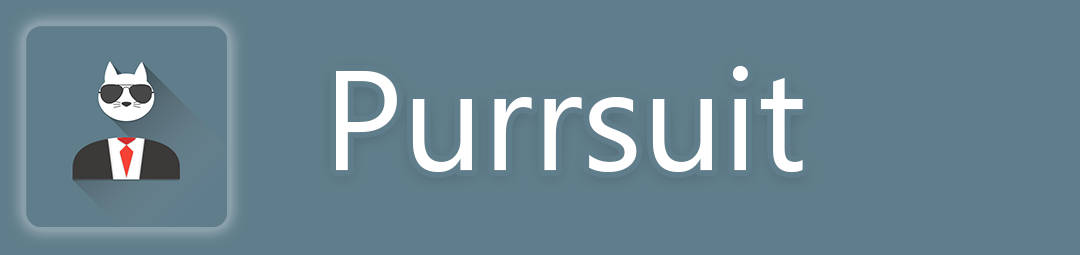
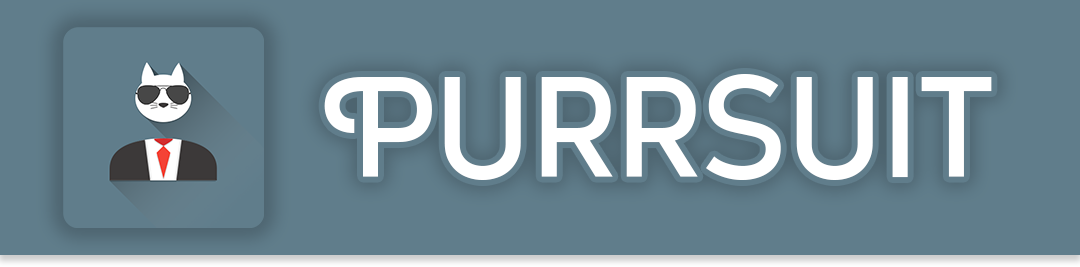
Fixed Ranking functions; Changed app images;

Changed region(s): [[0.275, 0.2471, 0.9167, 0.6863], [0.0, 0.0549, 1.0, 1.0]]

diff --git a/www/js/userController.js b/www/js/userController.js
@@ -33,8 +33,8 @@ function($scope, $rootScope, $state, $ionicPopup, SignUp,LogInFactory, EditUser,
         title: 'Sucesso',
         template: 'Conta criada com êxito!'
       });
-      console.log(user);
-      var userId = user.user.id;
+
+      var userId = user.id;
       $scope.receiveQuests(userId,3);
       $state.go('login');
 
@@ -71,10 +71,9 @@ function($scope, $rootScope, $state, $ionicPopup, SignUp,LogInFactory, EditUser,
   }
 
 	$scope.signInValid = function(data) {
-		console.log(data);
 		updateCurrentUser(data);
 		$rootScope.logged = true;
-		console.log($scope.logged);
+		console.log("USER LOGGED: " + $scope.logged);
 		$state.go('app.browseDeputies')
 	}
 
@@ -308,13 +307,13 @@ function($scope, $rootScope, $state, $ionicPopup, SignUp,LogInFactory, EditUser,
 
   $scope.getUserPositionRanking = function(){
     var userId = $rootScope.user.id;
-    UserPositionFactory.get({id: userId}, $scope.serverUserPositionSuccess,
+    UserPositionFactory.query({id: userId}, $scope.serverUserPositionSuccess,
       $scope.serverUserPositionError);
   }
 
   $scope.serverUserPositionSuccess = function(data){
     console.log("USER_POSITION: Getting user position from server...");
-    $scope.userPositionRanking = data.users[0];
+    $scope.userPositionRanking = data[0];
 
   }
 

diff --git a/www/templates/menu.html b/www/templates/menu.html
@@ -15,7 +15,6 @@
   <ion-side-menu side="left">
     <ion-content class="sideMenu" ng-controller="UserCtrl">
       <ion-list>
-
         <img class="full-image" src="img/sideMenuHeader.png" />
         <div class="item item-divider">
           Política
@@ -51,10 +50,9 @@
       <button class="button icon-left ion-power logoutButton" ng-click="logOut()" ng-show="logged">
         Sair
       </button>
-      <button class ="button icon-left ion-chevron-left logoutButton" ng-hide="logged" ui-sref="index">
+      <button class="button icon-left ion-chevron-left logoutButton" ng-hide="logged" ui-sref="index">
         Voltar
       </button>
-
     </ion-content>
   </ion-side-menu>
 </ion-side-menus>

diff --git a/www/templates/login.html b/www/templates/login.html
@@ -1,13 +1,9 @@
 <ion-header-bar class="temaPurrsuit" align-title="center">
-    <button class="button button-icon button-clear icon ion-chevron-left" ui-sref="index"></button>
+  <button class="button button-icon button-clear icon ion-chevron-left" ui-sref="index"></button>
 </ion-header-bar>
 <ion-view cache-view="false">
   <ion-content class="page">
-		<img src="img/PurrsuitPersonagem.png" class="purrSuitImage" />
-
-		<h2 class="purrTitle"> PurrSuit </h2>
-
-
+    <img src="img/MenuLogo.png" class="purrSuitImage" />
     <form name="myForm" ng-submit="signIn(user)">
 
       <div class="list">

diff --git a/www/css/style.css b/www/css/style.css
@@ -103,7 +103,8 @@
 }
 
 .page{
-	background-color: #607D8B;
+
+	background-image: url("../img/Background.png");
 }
 
 .signupPage{
@@ -136,17 +137,17 @@
 .QuestTitle{
 	color: #607D8B;
 }
+
 .sideMenu{
-	background-color: #CFD8DC !important;
-	color:  #212121;
+	background-image: url("../img/Sidemenu-background.jpg");
 }
 
 .purrSuitImage{
-	width: 250px;
-	height: 250px;
+	width: 75%;
+	height:auto;
 	margin: 0 auto;
 	display: table;
-	margin-top: -20px;
+	margin-top: 50px;
 }
 
 .levelBar {

diff --git a/www/templates/mainPage.html b/www/templates/mainPage.html
@@ -2,8 +2,7 @@
 </ion-header-bar>
 <ion-view cache-view="false">
   <ion-content class="page">
-		<img src="img/PurrsuitPersonagem.png" class="purrSuitImage" />
-    <h2 class="purrTitle">PurrSuit</h2>
+		<img src="img/MenuLogo.png" class="purrSuitImage" />
     <div class="loginButton">
       <button class="button button-block secondColor" ui-sref='login'>Entrar</button>
     </div>

diff --git a/www/templates/userRank.html b/www/templates/userRank.html
@@ -10,7 +10,7 @@
         </p>
       </div>
     </div>
-    
+
     <div class="list">
       <a collection-repeat="itemUser in users" class="item item-avatar item-icon-right">
         <img ng-src="{{itemUser.level.image_url}}">
